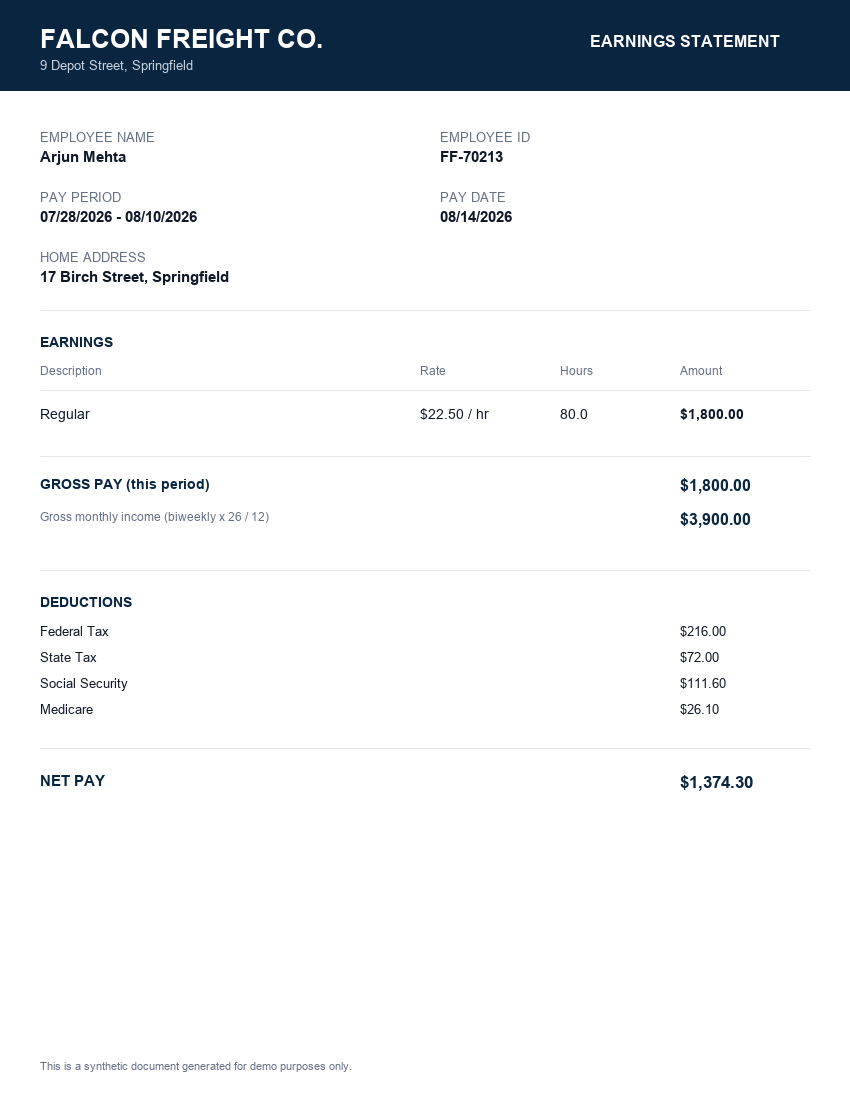
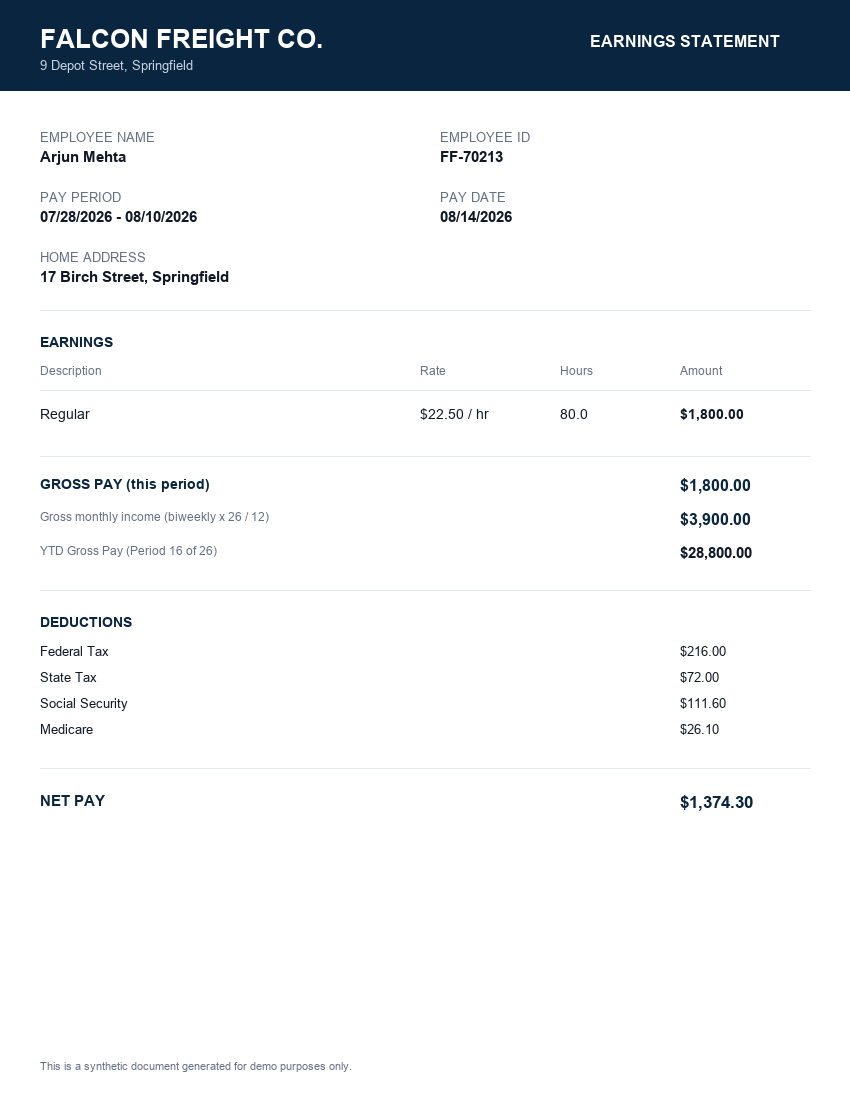
feat: statutory payroll-math and YTD consistency checks on pay stubs
Two more deterministic, explainable authenticity checks, same pattern
as the bank-deposit cross-check:

- Social Security (6.2%) and Medicare (1.45%) withholding must match
  the fixed federal percentage of gross pay shown. These are flat
  rates, not brackets (unlike federal/state income tax, which we
  deliberately don't attempt to re-derive), which is exactly what
  makes them checkable without a tax-bracket model. Someone inflating
  gross pay on a pay stub almost never rescales these two lines to
  match.
- Year-to-date gross, divided by the pay period number shown, must
  land close to this period's gross pay. Catches a current-period
  figure edited without also updating the YTD total.

Also adds a cheap ownership-percentage sanity bound (0-100%) as a
placeholder for real beneficial-ownership validation.

Regenerated the three consumer pay stub images to print YTD gross and
a pay period number (previously not shown at all), with the
underlying numbers set so all three seeded clean scenarios pass both
new checks exactly.

Changed region(s): [[0.0306, 0.4945, 0.2447, 0.7418], [0.7953, 0.5564, 0.8871, 0.7418], [0.7953, 0.4945, 0.8871, 0.5255]]

diff --git a/backend/src/services/verification.js b/backend/src/services/verification.js
@@ -16,6 +16,16 @@ const AFFORDABILITY = {
 const SMALL_BUSINESS_REVENUE_CAP_RATIO = 0.3; // rough rule of thumb, not a debt-service-coverage calc
 const SMALL_BUSINESS_PRODUCT_CAP = 250000;
 
+// Fixed federal payroll-tax rates (2024/2025), not brackets — unlike federal/
+// state income tax, these are flat percentages of gross pay, which is exactly
+// what makes them checkable without a full tax-bracket model. We don't model
+// the Social Security wage base cap (~$168k/yr) since it's irrelevant at our
+// seeded income levels.
+const SOCIAL_SECURITY_RATE = 0.062;
+const MEDICARE_RATE = 0.0145;
+const STATUTORY_TOLERANCE = 0.02; // 2% — allows for cent-level rounding only
+const YTD_TOLERANCE = 0.15; // 15% — real YTD varies period to period (OT, raises, unpaid leave)
+
 function normalizeName(s) {
   return (s || '').toLowerCase().replace(/[^a-z ]/g, '').split(/\s+/).filter(Boolean).sort().join(' ');
 }
@@ -67,6 +77,63 @@ export function verifyDocument(application, extracted, options = {}) {
       explanation: ok
         ? `Documented income is within ${INCOME_TOLERANCE * 100}% of the stated income.`
         : `Application states $${stated.toLocaleString('en-US')}/mo but this document shows $${found.toLocaleString('en-US')}/mo (${(diff * 100).toFixed(0)}% difference). Ask the borrower to confirm or provide additional proof of income.`,
+    });
+  }
+
+  // Statutory math: Social Security (6.2%) and Medicare (1.45%) are FIXED
+  // federal percentages of gross pay (not brackets, unlike income tax — we
+  // deliberately don't attempt to re-derive federal/state income tax, which
+  // is progressive and depends on filing status/allowances we don't have).
+  // Someone editing gross pay on a pay stub almost always forgets to also
+  // rescale these two lines to match — a cheap, hard-to-fake tell.
+  if (f.grossPayPeriod != null && f.socialSecurityWithheld != null) {
+    const expected = f.grossPayPeriod * SOCIAL_SECURITY_RATE;
+    const diff = Math.abs(expected - f.socialSecurityWithheld) / expected;
+    const ok = diff <= STATUTORY_TOLERANCE;
+    checks.push({
+      field: 'Social Security withholding (6.2%)',
+      expected: `~$${expected.toFixed(2)}`,
+      found: `$${f.socialSecurityWithheld.toFixed(2)}`,
+      status: ok ? 'match' : 'mismatch',
+      explanation: ok
+        ? 'Social Security withholding matches the statutory 6.2% rate for the gross pay shown.'
+        : `Social Security withholding ($${f.socialSecurityWithheld.toFixed(2)}) doesn't match the statutory 6.2% rate for the gross pay shown (expected ~$${expected.toFixed(2)}). Gross pay edited without recalculating withholding is a common tampering signature — escalate to a human reviewer.`,
+    });
+  }
+
+  if (f.grossPayPeriod != null && f.medicareWithheld != null) {
+    const expected = f.grossPayPeriod * MEDICARE_RATE;
+    const diff = Math.abs(expected - f.medicareWithheld) / expected;
+    const ok = diff <= STATUTORY_TOLERANCE;
+    checks.push({
+      field: 'Medicare withholding (1.45%)',
+      expected: `~$${expected.toFixed(2)}`,
+      found: `$${f.medicareWithheld.toFixed(2)}`,
+      status: ok ? 'match' : 'mismatch',
+      explanation: ok
+        ? 'Medicare withholding matches the statutory 1.45% rate for the gross pay shown.'
+        : `Medicare withholding ($${f.medicareWithheld.toFixed(2)}) doesn't match the statutory 1.45% rate for the gross pay shown (expected ~$${expected.toFixed(2)}). Gross pay edited without recalculating withholding is a common tampering signature — escalate to a human reviewer.`,
+    });
+  }
+
+  // Year-to-date consistency: YTD gross divided by the pay period number
+  // should land close to this period's gross pay. A wider tolerance than
+  // the statutory checks above — real YTD isn't perfectly flat across a
+  // year (raises, unpaid leave, overtime), so this only catches a YTD
+  // figure that's wildly out of step with the current period's pay, not
+  // small legitimate variance.
+  if (f.ytdGrossPay != null && f.payPeriodNumber != null && f.grossPayPeriod != null && f.payPeriodNumber > 0) {
+    const impliedPeriodGross = f.ytdGrossPay / f.payPeriodNumber;
+    const diff = Math.abs(impliedPeriodGross - f.grossPayPeriod) / impliedPeriodGross;
+    const ok = diff <= YTD_TOLERANCE;
+    checks.push({
+      field: 'Year-to-date gross consistency',
+      expected: `~$${impliedPeriodGross.toFixed(2)}/period (from YTD ÷ period ${f.payPeriodNumber})`,
+      found: `$${f.grossPayPeriod.toFixed(2)} this period`,
+      status: ok ? 'match' : 'mismatch',
+      explanation: ok
+        ? 'Year-to-date gross pay is consistent with this period\'s gross pay and the pay period number shown.'
+        : `Year-to-date gross ($${f.ytdGrossPay.toLocaleString('en-US')}) implies an average of ~$${impliedPeriodGross.toFixed(2)}/period through period ${f.payPeriodNumber}, which doesn't line up with this period's gross pay of $${f.grossPayPeriod.toFixed(2)} (${(diff * 100).toFixed(0)}% difference). Confirm this pay stub wasn't edited — a genuinely inflated current-period figure rarely gets the YTD total updated to match.`,
     });
   }
 
@@ -144,6 +211,22 @@ export function verifyDocument(application, extracted, options = {}) {
       explanation: match
         ? 'Employer matches the application.'
         : 'Employer differs from the application — may be a legitimate job change; confirm with borrower.',
+    });
+  }
+
+  // Cheap sanity bound — a single ownership-disclosure document per
+  // application (our current model) can't prove percentages sum to 100%
+  // across multiple owners, only that this one figure is itself plausible.
+  if (f.ownershipPercent != null) {
+    const ok = f.ownershipPercent > 0 && f.ownershipPercent <= 100;
+    checks.push({
+      field: 'Ownership percentage',
+      expected: '0–100%',
+      found: `${f.ownershipPercent}%`,
+      status: ok ? 'match' : 'mismatch',
+      explanation: ok
+        ? 'Ownership percentage is within a valid range.'
+        : `Ownership percentage (${f.ownershipPercent}%) is out of a valid 0–100% range — likely an extraction or data-entry error. Escalate to an officer.`,
     });
   }
 

diff --git a/backend/src/services/mockFixtures.js b/backend/src/services/mockFixtures.js
@@ -23,6 +23,11 @@ const FIXTURES = {
       netPay: 1480.02,
       recentDepositAmount: null,
       recentDepositSource: null,
+      grossPayPeriod: 1938.46,
+      socialSecurityWithheld: 120.18,
+      medicareWithheld: 28.11,
+      ytdGrossPay: 31015.36,
+      payPeriodNumber: 16,
     },
   },
   'jordan-rivera-drivers-license': {
@@ -43,6 +48,11 @@ const FIXTURES = {
       netPay: null,
       recentDepositAmount: null,
       recentDepositSource: null,
+      grossPayPeriod: null,
+      socialSecurityWithheld: null,
+      medicareWithheld: null,
+      ytdGrossPay: null,
+      payPeriodNumber: null,
     },
   },
   'jordan-rivera-bank-statement': {
@@ -63,6 +73,11 @@ const FIXTURES = {
       netPay: null,
       recentDepositAmount: 1480.02,
       recentDepositSource: 'Brightline Logistics — Direct Deposit',
+      grossPayPeriod: null,
+      socialSecurityWithheld: null,
+      medicareWithheld: null,
+      ytdGrossPay: null,
+      payPeriodNumber: null,
     },
   },
   'priya-nair-pay-stub': {
@@ -83,6 +98,11 @@ const FIXTURES = {
       netPay: 2454.10,
       recentDepositAmount: null,
       recentDepositSource: null,
+      grossPayPeriod: 3323.08,
+      socialSecurityWithheld: 206.03,
+      medicareWithheld: 48.18,
+      ytdGrossPay: 53169.28,
+      payPeriodNumber: 16,
     },
   },
   'priya-nair-drivers-license': {
@@ -103,6 +123,11 @@ const FIXTURES = {
       netPay: null,
       recentDepositAmount: null,
       recentDepositSource: null,
+      grossPayPeriod: null,
+      socialSecurityWithheld: null,
+      medicareWithheld: null,
+      ytdGrossPay: null,
+      payPeriodNumber: null,
     },
   },
   'priya-nair-bank-statement': {
@@ -123,6 +148,11 @@ const FIXTURES = {
       netPay: null,
       recentDepositAmount: 2454.10,
       recentDepositSource: 'Cedar Health Systems — Direct Deposit',
+      grossPayPeriod: null,
+      socialSecurityWithheld: null,
+      medicareWithheld: null,
+      ytdGrossPay: null,
+      payPeriodNumber: null,
     },
   },
   // Planted exception: employer differs from the application's stated
@@ -147,6 +177,11 @@ const FIXTURES = {
       netPay: 1374.30,
       recentDepositAmount: null,
       recentDepositSource: null,
+      grossPayPeriod: 1800.00,
+      socialSecurityWithheld: 111.60,
+      medicareWithheld: 26.10,
+      ytdGrossPay: 28800.00,
+      payPeriodNumber: 16,
     },
   },
   'arjun-mehta-drivers-license': {
@@ -167,6 +202,11 @@ const FIXTURES = {
       netPay: null,
       recentDepositAmount: null,
       recentDepositSource: null,
+      grossPayPeriod: null,
+      socialSecurityWithheld: null,
+      medicareWithheld: null,
+      ytdGrossPay: null,
+      payPeriodNumber: null,
     },
   },
   'arjun-mehta-bank-statement': {
@@ -187,6 +227,11 @@ const FIXTURES = {
       netPay: null,
       recentDepositAmount: 1374.30,
       recentDepositSource: 'Falcon Freight Co. — Direct Deposit',
+      grossPayPeriod: null,
+      socialSecurityWithheld: null,
+      medicareWithheld: null,
+      ytdGrossPay: null,
+      payPeriodNumber: null,
     },
   },
   'whitfield-bakery-business-tax-return': {
@@ -207,6 +252,11 @@ const FIXTURES = {
       netPay: null,
       recentDepositAmount: null,
       recentDepositSource: null,
+      grossPayPeriod: null,
+      socialSecurityWithheld: null,
+      medicareWithheld: null,
+      ytdGrossPay: null,
+      payPeriodNumber: null,
     },
   },
   'whitfield-bakery-business-license': {
@@ -229,6 +279,11 @@ const FIXTURES = {
       netPay: null,
       recentDepositAmount: null,
       recentDepositSource: null,
+      grossPayPeriod: null,
+      socialSecurityWithheld: null,
+      medicareWithheld: null,
+      ytdGrossPay: null,
+      payPeriodNumber: null,
     },
   },
   'whitfield-bakery-personal-financial-statement': {
@@ -249,6 +304,11 @@ const FIXTURES = {
       netPay: null,
       recentDepositAmount: null,
       recentDepositSource: null,
+      grossPayPeriod: null,
+      socialSecurityWithheld: null,
+      medicareWithheld: null,
+      ytdGrossPay: null,
+      payPeriodNumber: null,
     },
   },
   'whitfield-bakery-ownership-disclosure': {
@@ -269,6 +329,11 @@ const FIXTURES = {
       netPay: null,
       recentDepositAmount: null,
       recentDepositSource: null,
+      grossPayPeriod: null,
+      socialSecurityWithheld: null,
+      medicareWithheld: null,
+      ytdGrossPay: null,
+      payPeriodNumber: null,
     },
   },
 };
@@ -291,6 +356,11 @@ const UNKNOWN_FALLBACK = {
     netPay: null,
     recentDepositAmount: null,
     recentDepositSource: null,
+    grossPayPeriod: null,
+    socialSecurityWithheld: null,
+    medicareWithheld: null,
+    ytdGrossPay: null,
+    payPeriodNumber: null,
   },
 };
 

diff --git a/backend/src/services/extraction.js b/backend/src/services/extraction.js
@@ -27,7 +27,12 @@ const EXTRACTION_PROMPT = `You are a loan document analyst. Look at this documen
     "ownershipPercent": number|null,
     "netPay": number|null,
     "recentDepositAmount": number|null,
-    "recentDepositSource": string|null
+    "recentDepositSource": string|null,
+    "grossPayPeriod": number|null,
+    "socialSecurityWithheld": number|null,
+    "medicareWithheld": number|null,
+    "ytdGrossPay": number|null,
+    "payPeriodNumber": number|null
   }
 }
 Rules:
@@ -37,6 +42,9 @@ Rules:
 - ownershipPercent is the percentage ownership stake shown on an ownership/beneficial-owner disclosure, 0-100.
 - netPay is a pay stub's NET PAY (take-home, after deductions) for the pay period shown, in dollars.
 - recentDepositAmount and recentDepositSource are only for bank statements: the dollar amount and transaction description of the most recent transaction that looks like a recurring payroll/salary direct deposit (not a one-off transfer or refund).
+- grossPayPeriod is a pay stub's GROSS PAY for the current pay period only (not the monthly-converted figure).
+- socialSecurityWithheld and medicareWithheld are the dollar amounts on the DEDUCTIONS lines labeled "Social Security" and "Medicare".
+- ytdGrossPay and payPeriodNumber are only present on a pay stub if it explicitly prints a year-to-date gross figure and a pay period number (e.g. "Period 16 of 26") — leave both null if not shown.
 - Use null for anything not visible or not applicable to this document type. Never guess.
 - confidence reflects how legible/complete the document is, not your certainty about the docType alone.`;
 

diff --git a/data/seed/generate_documents.py b/data/seed/generate_documents.py
@@ -109,7 +109,10 @@ def pay_stub():
     y += 34
     d.text((40, y), "Gross monthly income (biweekly x 26 / 12)", font=font(12), fill=MUTED)
     d.text((680, y), "$4,200.00", font=font(16, bold=True), fill=(180, 35, 24))
-    y += 60
+    y += 34
+    d.text((40, y), "YTD Gross Pay (Period 16 of 26)", font=font(12), fill=MUTED)
+    d.text((680, y), "$31,015.36", font=font(15, bold=True), fill=INK)
+    y += 46
     hline(d, 40, y, W - 40)
     y += 24
 
@@ -269,7 +272,10 @@ def priya_pay_stub():
     y += 34
     d.text((40, y), "Gross monthly income (biweekly x 26 / 12)", font=font(12), fill=MUTED)
     d.text((680, y), "$7,200.00", font=font(16, bold=True), fill=ACCENT)
-    y += 60
+    y += 34
+    d.text((40, y), "YTD Gross Pay (Period 16 of 26)", font=font(12), fill=MUTED)
+    d.text((680, y), "$53,169.28", font=font(15, bold=True), fill=INK)
+    y += 46
     hline(d, 40, y, W - 40)
     y += 24
 
@@ -433,7 +439,10 @@ def arjun_pay_stub():
     y += 34
     d.text((40, y), "Gross monthly income (biweekly x 26 / 12)", font=font(12), fill=MUTED)
     d.text((680, y), "$3,900.00", font=font(16, bold=True), fill=ACCENT)
-    y += 60
+    y += 34
+    d.text((40, y), "YTD Gross Pay (Period 16 of 26)", font=font(12), fill=MUTED)
+    d.text((680, y), "$28,800.00", font=font(15, bold=True), fill=INK)
+    y += 46
     hline(d, 40, y, W - 40)
     y += 24
 
